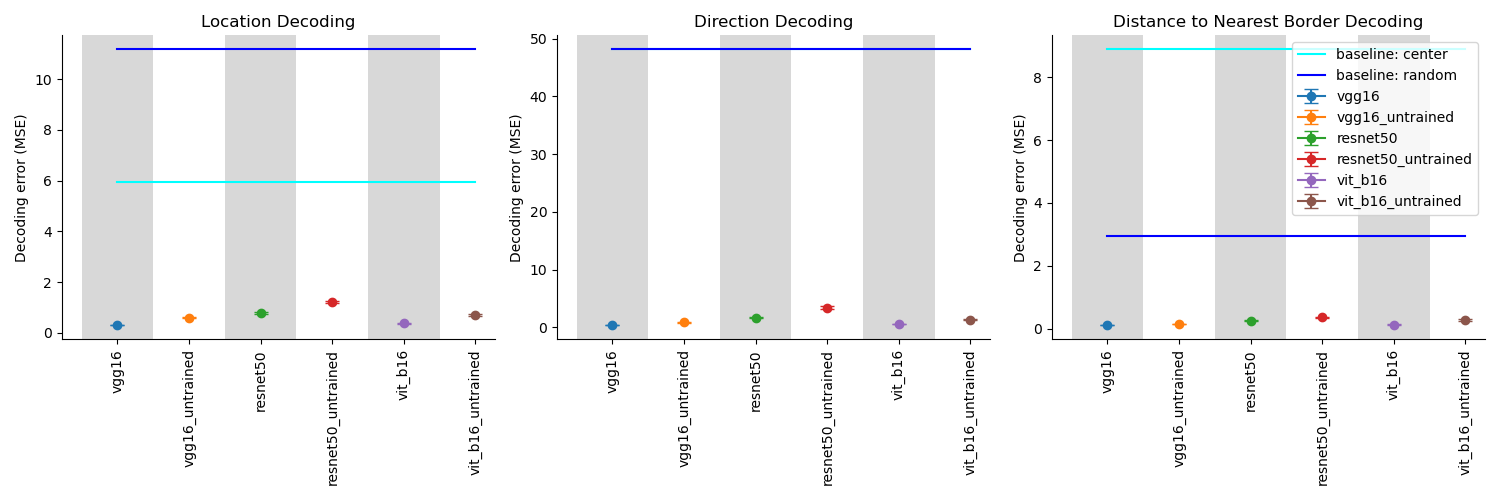
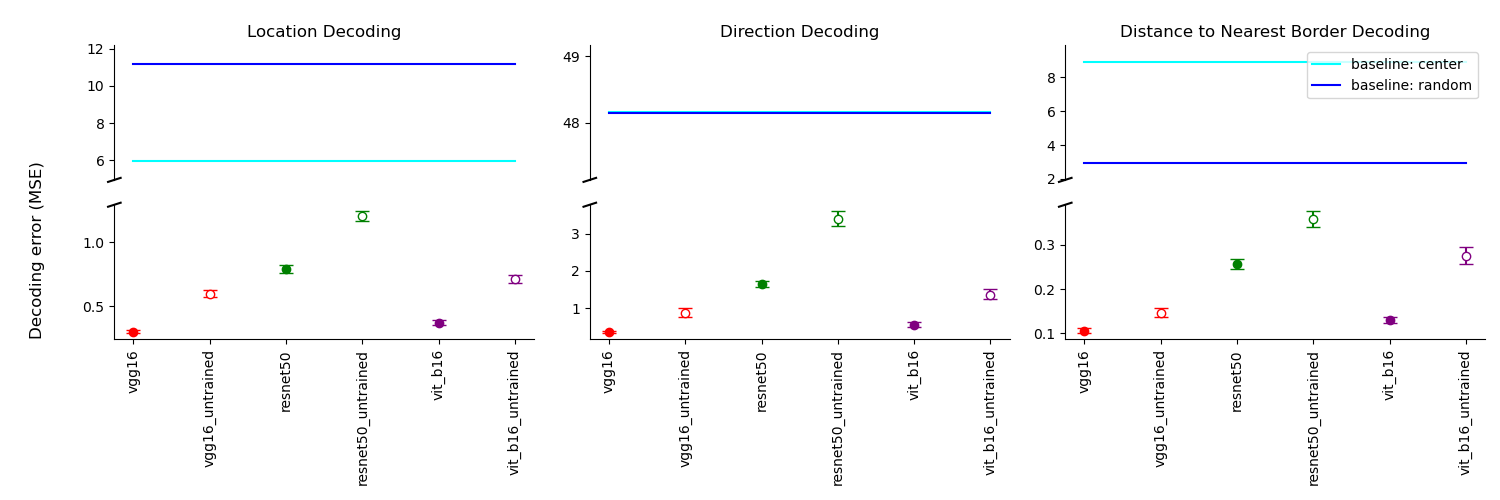
add code: improve plotter for across models decoding w mixed scaling trick and etc

diff --git a/figures_paper.py b/figures_paper.py
@@ -139,7 +139,7 @@ def decoding_each_model_across_layers_and_sr():
         plt.close()
 
 
-def decoding_all_models_one_layer_one_sr():
+def decoding_all_models_one_layer_one_sr_V1():
     envs = ['env28_r24']
     env = envs[0]
     movement_mode = '2d'
@@ -272,6 +272,187 @@ def decoding_all_models_one_layer_one_sr():
         
     plt.tight_layout()
     plt.legend(loc='upper right')
+    plt.savefig(f'figs/paper/decoding_across_models.png')
+    plt.close()
+
+
+def decoding_all_models_one_layer_one_sr():
+    """
+    ref:
+        https://stackoverflow.com/questions/5656798/is-there-a-way-to-make-a-discontinuous-axis-in-matplotlib
+    """
+    envs = ['env28_r24']
+    env = envs[0]
+    movement_mode = '2d'
+    sampling_rates = [0.3]
+    random_seeds = [42]
+    model_names = ['vgg16', 'vgg16_untrained', 
+        'resnet50', 'resnet50_untrained',
+        'vit_b16', 'vit_b16_untrained']
+    moving_trajectory = 'uniform'
+    decoding_model_choice = {'name': 'ridge_regression', 'hparams': 1.0}
+    decoding_model_name = decoding_model_choice['name']
+    decoding_model_hparams = decoding_model_choice['hparams']
+    feature_selection = 'l2'
+    error_types = ['loc', 'rot', 'dist']
+    tracked_metrics = ['mse', 'ci', 'baseline_predict_mid_mse', 'baseline_predict_random_mse']
+
+
+    results_collector = \
+        defaultdict(                            # key - error_type
+            lambda: defaultdict(                # key - model_name
+                lambda: defaultdict(            # key - output_layer
+                    lambda: defaultdict(list)   # key - metric
+                )
+            )
+        )
+         
+    for error_type in error_types:
+        if 'loc' in error_type or 'rot' in error_type:
+            experiment = 'loc_n_rot'
+        elif 'dist' in error_type:
+            experiment = 'border_dist'
+
+        for model_name in model_names:
+            if 'vgg16' in model_name:  output_layer = 'block5_pool'
+            elif 'resnet50' in model_name: output_layer = 'avg_pool'
+            elif 'vit' in model_name: output_layer = 'layer_12'
+
+            for sampling_rate in sampling_rates:
+                # sampling rate would be the base dimension where 
+                # we accumulate results in a list to plot at once.
+                to_average_over_seeds = defaultdict(list)
+                for random_seed in random_seeds:
+                    results_path = \
+                        f'results/{env}/{movement_mode}/{moving_trajectory}/'\
+                        f'{model_name}/{experiment}/{feature_selection}/'\
+                        f'{decoding_model_name}_{decoding_model_hparams}/'\
+                        f'{output_layer}/sr{sampling_rate}/seed{random_seed}'
+                    results = np.load(f'{results_path}/res.npy', allow_pickle=True).item()[error_type]
+                    for metric in tracked_metrics:
+                        to_average_over_seeds[metric].append(results[metric])
+                
+                # per metric per output layer 
+                # across sampling rates averaged over seeds
+                for metric in tracked_metrics:
+                    # a special case is when metric=='ci' where 
+                    # ..res[metric] is a list of 2 elements
+                    # so we need to average wrt each element across seeds
+                    # and save them back as 2 elements for later plotting.
+                    if metric == 'ci':
+                        ci_low_avg = np.mean(
+                            [ci[0] for ci in to_average_over_seeds[metric]])
+                        ci_high_avg = np.mean(
+                            [ci[1] for ci in to_average_over_seeds[metric]])
+                        avg_res = [ci_low_avg, ci_high_avg]
+                    else:
+                        avg_res = np.mean(to_average_over_seeds[metric])
+                    results_collector[error_type][model_name][output_layer][metric].append(avg_res)
+    
+    # plot collected results.
+    fig, (axes_row1, axes_row2) = plt.subplots(2, len(error_types), figsize=(15, 5))
+    for i, error_type in enumerate(error_types):
+        for x_i, model_name in enumerate(model_names):
+            model_name = model_names[x_i]
+            if 'vgg16' in model_name:  
+                output_layer = 'block5_pool'
+                color = 'red'
+            elif 'resnet50' in model_name:
+                output_layer = 'avg_pool'
+                color = 'green'
+            elif 'vit' in model_name: 
+                output_layer = 'layer_12'
+                color = 'purple'
+
+            mse = np.array(
+                results_collector[error_type][model_name][output_layer]['mse'])
+            ci_low = np.array(
+                results_collector[error_type][model_name][output_layer]['ci'])[:, 0]
+            ci_high = np.array(
+                results_collector[error_type][model_name][output_layer]['ci'])[:, 1]
+
+            if 'untrained' in model_name:
+                mfc = 'white'
+            else:
+                mfc = None
+
+            axes_row2[i].errorbar(
+                x_i,
+                mse,
+                yerr=[mse-ci_low, ci_high-mse],
+                label=model_name,
+                marker='o',
+                capsize=5,
+                mfc=mfc,
+                color=color
+            )
+            
+            # set ylim with a bit of margin
+            # axes_row2[i].set_ylim(
+            #     np.min(mse-ci_low)-0.1, 
+            #     np.max(ci_high-mse)+0.1
+            # )
+                            
+        # baselines are the same for all models
+        # so we only plot them once as plot
+        baseline_predict_mid_mse = np.array(
+            results_collector[error_type][model_name][output_layer]['baseline_predict_mid_mse'])
+        axes_row1[i].plot(
+            range(len(model_names)),
+            baseline_predict_mid_mse.repeat(len(model_names)),
+            label='baseline: center',
+            color='cyan',
+        )
+
+        baseline_predict_random_mse = np.array(
+            results_collector[error_type][model_name][output_layer]['baseline_predict_random_mse'])
+        
+        axes_row1[i].plot(
+            range(len(model_names)),
+            baseline_predict_random_mse.repeat(len(model_names)),
+            label='baseline: random',
+            color='blue',
+        )
+        # set ylim with a bit of margin 
+        # two baselines can be different magnitude, 
+        # so the upper bound is the max of the two with margin,
+        # and the lower bound is the min of the two with margin.
+        max_of_two_baseline = np.max(
+            np.concatenate([baseline_predict_mid_mse, baseline_predict_random_mse])
+        )
+        min_of_two_baseline = np.min(
+            np.concatenate([baseline_predict_mid_mse, baseline_predict_random_mse])
+        )
+        axes_row1[i].set_ylim(
+            min_of_two_baseline-1, 
+            max_of_two_baseline+1
+        )
+
+        # axes[i].set_ylabel('Decoding error (MSE)')
+        if error_type == 'loc':  title = 'Location Decoding'
+        elif error_type == 'rot': title = 'Direction Decoding'
+        elif error_type == 'dist': title = 'Distance to Nearest Border Decoding'
+        axes_row1[i].set_title(title)
+        
+        axes_row1[i].spines['bottom'].set_visible(False)
+        axes_row1[i].spines['top'].set_visible(False)
+        axes_row1[i].spines['right'].set_visible(False)
+        axes_row2[i].spines['right'].set_visible(False)
+        axes_row2[i].spines['top'].set_visible(False)
+        axes_row1[i].set_xticks([])
+        axes_row2[i].set_xticks(range(len(model_names)))
+        axes_row2[i].set_xticklabels(model_names, rotation=90)
+
+        # Add diagonal lines to connect the subplots
+        d = 0.015  # How big to make the diagonal lines in axes coordinates
+        kwargs = dict(transform=axes_row1[i].transAxes, color='k', clip_on=False)
+        axes_row1[i].plot((-d, +d), (-d, +d), **kwargs)  # top-left diagonal line
+        kwargs.update(transform=axes_row2[i].transAxes)  # switch to the bottom subplot
+        axes_row2[i].plot((-d, +d), (1 - d, 1 + d), **kwargs)  # bottom-left diagonal line
+
+    axes_row1[2].legend(loc='upper right')
+    fig.supylabel('Decoding error (MSE)')
+    fig.tight_layout(rect=(0.025, 0, 1, 0.98))
     plt.savefig(f'figs/paper/decoding_across_models.png')
     plt.close()
 
@@ -758,7 +939,7 @@ def lesion_by_unit_chart_each_model_across_layers_and_lr():
 
 if __name__ == '__main__':
     # decoding_each_model_across_layers_and_sr()
-    # decoding_all_models_one_layer_one_sr()
+    decoding_all_models_one_layer_one_sr()
     # lesion_by_coef_each_model_across_layers_and_lr()
     # lesion_by_unit_chart_each_model_across_layers_and_lr()
-    unit_chart_type_against_coef_each_model_across_layers()
+    # unit_chart_type_against_coef_each_model_across_layers()
